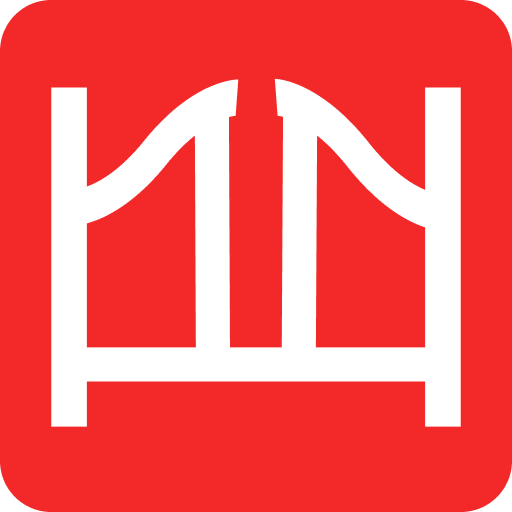
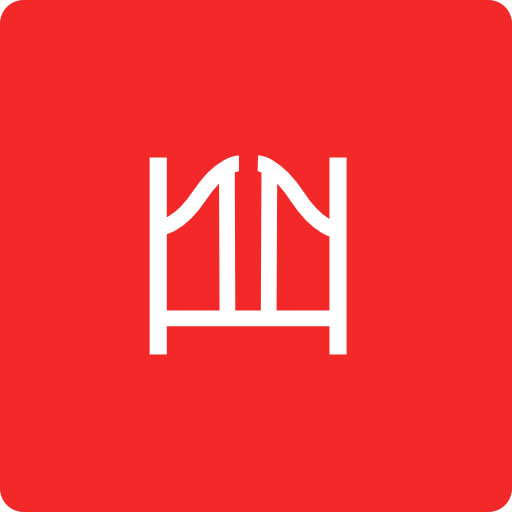
Fix the styling of the app in mobile

diff --git a/src/pages/home.page.tsx b/src/pages/home.page.tsx
@@ -1,4 +1,5 @@
 import logo from "../lib/assets/img/logo.svg";
+import smallLogo from "../lib/assets/img/small_logo.svg";
 import { useCallback, useContext, useEffect, useMemo, useState, WheelEvent } from "react";
 import { Channel } from "../lib/types/dtos";
 import { ChannelsContext, PlaylistItemsContext } from "../lib/contexts";
@@ -87,8 +88,11 @@ export default function HomePage({ refreshChannelBatch, refreshPlaylistItemBatch
 
     return (<div className="flex w-100 h-100vh">
         {/*Sidebar */}
-        <div className="sidebar w-20 h-100">
-            <div className="logo-header h-10 w-100 p-10"><img className="logo" src={logo} alt="YouHedge logo" /></div>
+        <div className="sidebar w-20 w-10-tablet h-100">
+            <div className="logo-header h-10 w-100 tablet-text-center">
+                <img className="logo desktop tv" src={logo} alt="YouHedge logo" />
+                <img className="logo tablet-inline" src={smallLogo} alt="YouHedge logo" />
+            </div>
             <div className="scrollview h-90 w-100" onWheel={onScrollChannels} {...swipeChannelListHandlers}>
                 {channels ? Object.values(channels)
                     .sort((a, b) => a.position - b.position).map(chan =>
@@ -101,8 +105,8 @@ export default function HomePage({ refreshChannelBatch, refreshPlaylistItemBatch
             </div>
         </div>
         {/* main content area */}
-        <div className="content-area w-80 h-100" onWheel={onScrollPlaylistItems} {...swipePlaylistItemsListHandlers}>
-            <div className="grid grid-4-cols grid-3-rows w-100 h-100 px-5 py-2">
+        <div className="content-area w-80 h-100 w-90-tablet" onWheel={onScrollPlaylistItems} {...swipePlaylistItemsListHandlers}>
+            <div className="grid grid-4-cols grid-3-rows w-100 h-100 px-5 py-3 px-2-tablet mobile-grid-1 small-tablet-grid-2 tablet-grid-3">
                 {playlistItems ? Object.values(playlistItems)
                     .filter((v) => v.channelId === selectedChannel?.id)
                     .sort((a, b) => a.position - b.position).map(item =>

diff --git a/src/index.css b/src/index.css
@@ -536,7 +536,7 @@ h6 {
 .cta .btn {
   padding: 0;
   max-width: 250px;
-  width: 30%;
+  width: 50rem;
   background-color: var(--dark-x2);
 }
 
@@ -570,6 +570,7 @@ h6 {
 
 .sidebar .logo-header {
   border-bottom: 0.1rem solid var(--darkish);
+  padding: 7.5% 7.5%;
 }
 
 .scrollview {
@@ -601,7 +602,7 @@ h6 {
 
 /* logo */
 .sidebar img.logo {
-  height: 80%;
+  height: 100%;
   width: auto;
   max-width: 100%;
   min-height: 30px;
@@ -616,4 +617,105 @@ h6 {
 .playlist-item-card .card-body {
   overflow-y: hidden;
   overflow-x: hidden;
+}
+
+/*Responsive */
+.mobile-inline,
+.mobile-block,
+.mobile-inline-block,
+.tablet-inline,
+.tablet-block,
+.tablet-inline-block {
+  display: none;
+}
+
+@media screen and (max-width: 1200px) {
+
+  /* Sidebar */
+  .sidebar .logo-header {
+    padding: 10% 10%;
+  }
+}
+
+
+@media screen and (max-width: 992px) {
+
+  .desktop,
+  .tv {
+    display: none;
+  }
+
+  .tablet-inline {
+    display: inline;
+  }
+
+  .tablet-inline-block {
+    display: inline-block;
+  }
+
+  .tablet-block {
+    display: block;
+  }
+
+  .w-10-tablet {
+    width: 10%;
+    min-width: 70px;
+  }
+
+  .w-90-tablet {
+    width: 90%;
+    min-width: 70px;
+    margin-right: auto;
+  }
+
+  .tablet-justify-center {
+    justify-content: center;
+  }
+
+  .tablet-text-center {
+    text-align: center;
+  }
+
+  .px-2-tablet {
+    padding-left: 2%;
+    padding-right: 2%;
+  }
+
+  .tablet-grid-3 {
+    grid-template-columns: 33% 33% 33%;
+  }
+
+  /* Sidebar */
+  .sidebar .logo-header {
+    padding: 15% 15%;
+  }
+}
+
+@media screen and (max-width: 768px) {
+  .small-tablet-grid-2 {
+    grid-template-columns: auto auto;
+  }
+}
+
+@media screen and (max-width: 576px) {
+  .mobile-inline {
+    display: inline;
+  }
+
+  .mobile-inline-block {
+    display: inline-block;
+  }
+
+  .mobile-block {
+    display: block;
+  }
+
+  .mobile-grid-1 {
+    grid-template-columns: auto;
+  }
+
+  /* Sidebar */
+  .sidebar .logo-header {
+    padding: 20% 20%;
+  }
 }

diff --git a/src/components/ChannelCard.tsx b/src/components/ChannelCard.tsx
@@ -7,8 +7,8 @@ interface IProps {
 }
 
 export default function ChannelCard({ channel, onClick }: IProps) {
-    return <div className="card channel-card flex h-8 px-10 py-5" onClick={() => onClick(channel)}>
+    return <div className="card channel-card flex h-8 px-10 py-5 tablet-justify-center" onClick={() => onClick(channel)}>
         <Avatar imageUrl={channel.imageUrl} height="80%" />
-        <div className="text">{channel.title}</div>
+        <div className="text desktop tv">{channel.title}</div>
     </div>
 }

diff --git a/README.md b/README.md
@@ -120,7 +120,7 @@ yarn test
 
 - [x] Playlists for channels other than those got at the start are not being returned.
 - [x] On mobile, the wheel event is not being fired.
-- [ ] On mobile, the UI is quite terrible with regards to the layout. Fix it.
+- [x] On mobile, the UI is quite terrible with regards to the layout. Fix it.
 - [ ] Add loading indicators on welcome page, home page (on clicking a channel)
 - [ ] Increase the size of the controls of the YouTube player
 - [ ] Fix the refreshing of the access token. For some reason, it keeps timing out.
